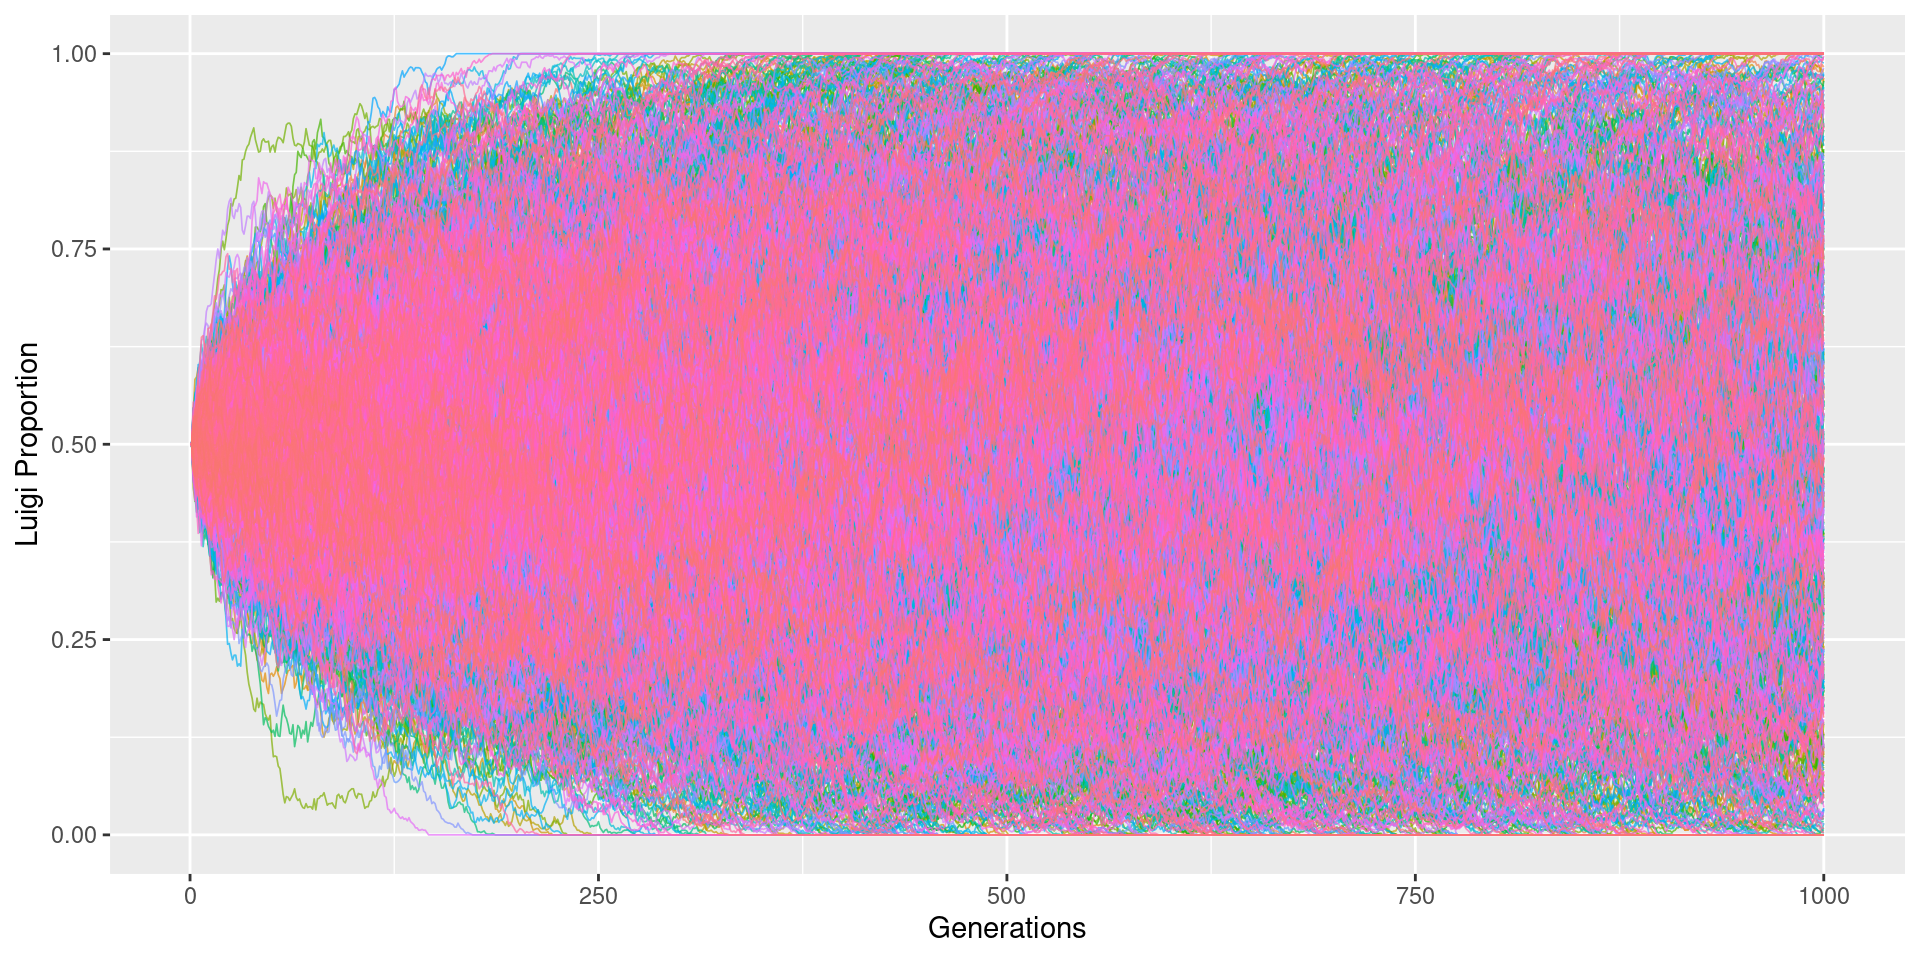
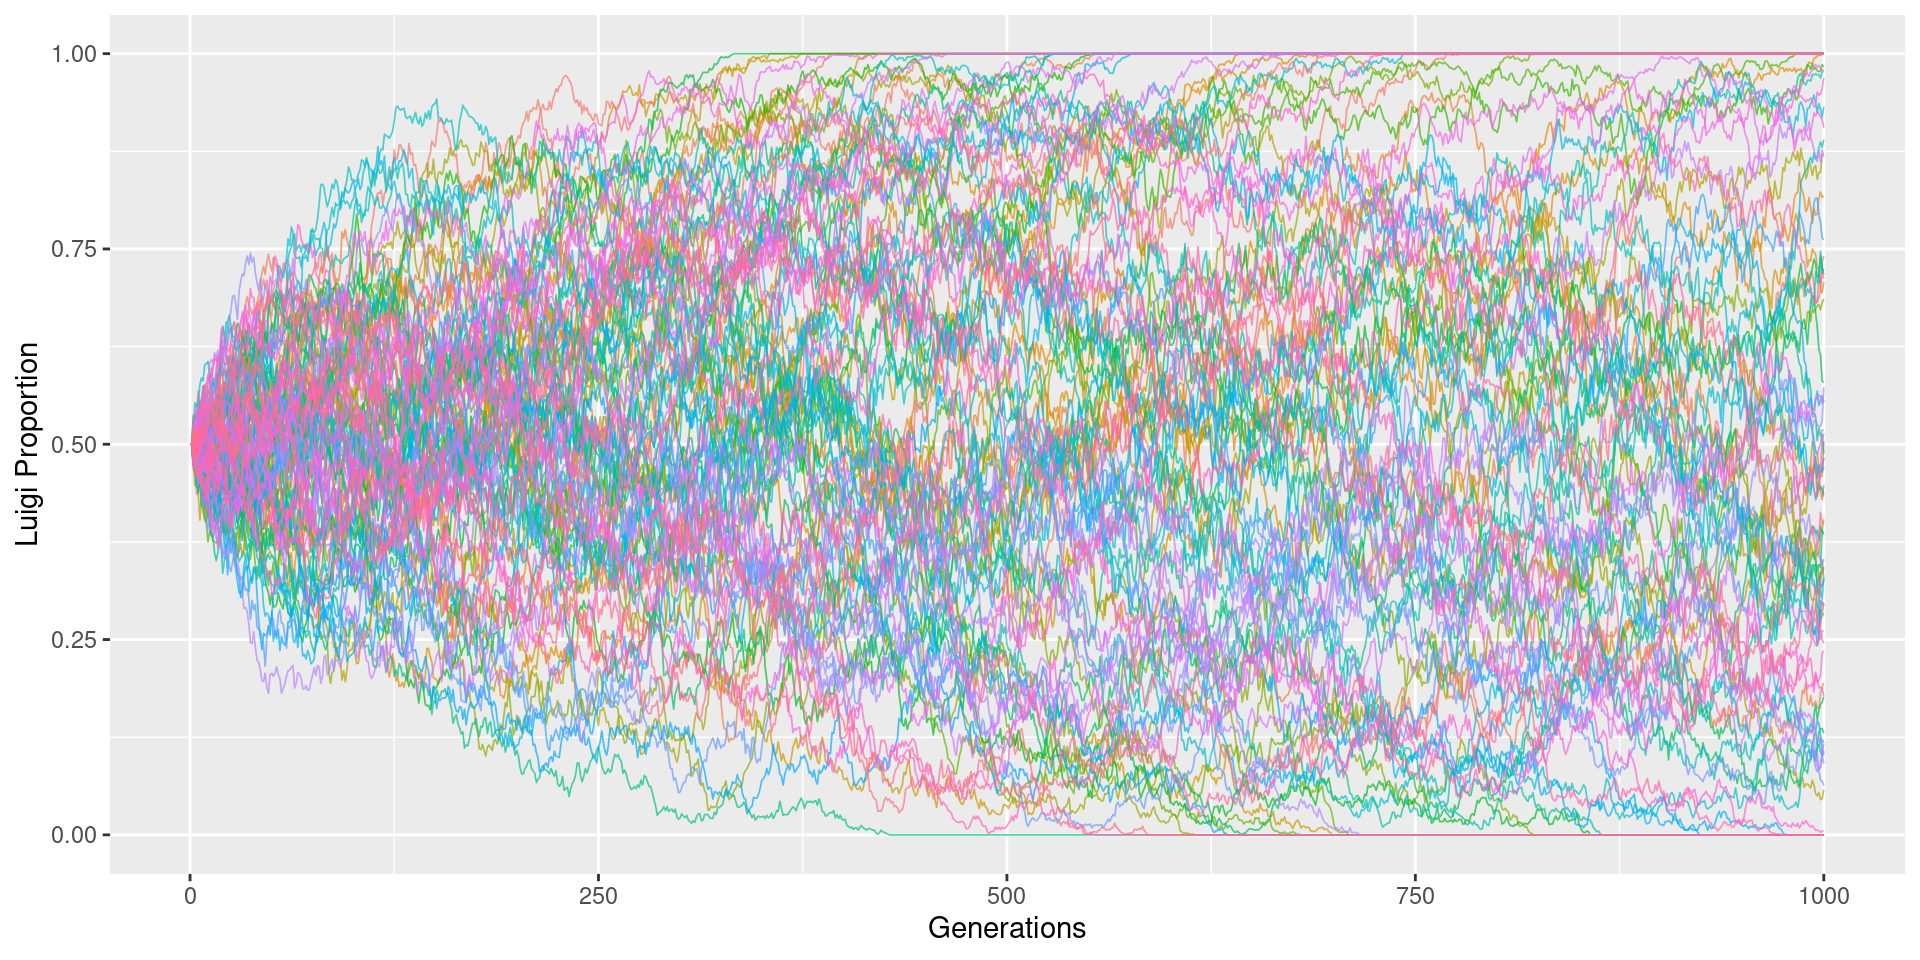
Built site for gh-pages

diff --git a/junior-day-2026.html b/junior-day-2026.html
@@ -204,28 +204,31 @@ Eric Friedlander
 
 </section>
 <section class="slide level2">
-<h2>A Little Bit About Met</h2>
+<h2>A Little Bit About Me</h2>
 <ul>
 <li>I’m in the <strong>MAPS</strong> (Mathematics &amp; Physical Sciences) department</li>
 <li>I mostly teach Statistics, Computer Science, and Data Analytics Courses</li>
 <li>My undergraduate degree is in Mathematics &amp; Statistics</li>
+<li>After college, I was a Business Analyst at Capital One</li>
 <li>My graduate degree is in Statistics &amp; Operations Research</li>
+<li>Did a Post-Doc in Population Genetics</li>
 <li>I’m grew up just outside New York City</li>
 </ul>
 </section>
 <section class="slide level2">
 <h2>Why should you study Math and Statistics?</h2>
 <ul>
-<li>The demand for quantitative skills is outpacing nearly every other field.</li>
-<li>Extremely high earning potential</li>
+<li><span class="fragment strike">The demand for quantitative skills is outpacing nearly every other field</span></li>
+<li><span class="fragment strike">Extremely high earning potential</span></li>
 </ul>
 <div class="fragment">
 <div>
 <ul>
 <li class="fragment"><a href="https://www.youtube.com/watch?v=oYJRwgHEFS0">Because it’s hard</a></li>
 <li class="fragment">Doing hard stuff is rewarding and will prepare you for success</li>
-<li class="fragment">You will have more flexibility</li>
+<li class="fragment">Doing hard stuff will provide you with flexibility</li>
 <li class="fragment">Jobs requiring strong quantitative skills are consistently ranked as having the highest quality of life</li>
+<li class="fragment">Math at the top of “stable careers” according to BLS</li>
 </ul>
 </div>
 </div>
@@ -291,9 +294,22 @@ Eric Friedlander
 <ul>
 <li class="fragment">We build a model</li>
 <li class="fragment">What’s a model?</li>
-<li class="fragment">Model: a simplified but tractable representation of the real world</li>
 </ul>
 </div>
+</section>
+<section class="slide level2">
+<h2>Text “modelyote” followed by your answer to 22333.</h2>
+<div class="container">
+<iframe src="https://embed.polleverywhere.com/free_text_polls/m8v8aZDjNsGL0dtEE2CLZ?controls=none&amp;short_poll=true" width="800px" height="600px">
+</iframe>
+</div>
+</section>
+<section class="slide level2">
+<h2>What is a model?</h2>
+<ul>
+<li>A model is a simplified but tractable version of reality</li>
+<li>What does tractable mean?</li>
+</ul>
 </section>
 <section class="slide level2">
 <h2>Calculating the area of California</h2>
@@ -359,7 +375,7 @@ Eric Friedlander
 <div>
 <ul>
 <li class="fragment">If <span class="math inline">\(p_k\)</span> is the proportion of Luigi’s in the <span class="math inline">\(k\)</span>th generation and…</li>
-<li class="fragment"><span class="math inline">\(X_{k+1}\)</span> is the number of Luigi’s int he <span class="math inline">\(k+1\)</span>th generation then…</li>
+<li class="fragment"><span class="math inline">\(X_{k+1}\)</span> is the number of Luigi’s in the <span class="math inline">\(k+1\)</span>th generation then…</li>
 <li class="fragment"><span class="math inline">\(X_k\)</span> has a <em>Binomial distribution</em></li>
 </ul>
 </div>
@@ -374,7 +390,7 @@ Eric Friedlander
 <span id="cb1-4"><a></a>x2 <span class="ot">&lt;-</span> <span class="fu">rbinom</span>(<span class="dv">1</span>, N, p1)</span>
 <span id="cb1-5"><a></a>x2</span></code><button title="Copy to Clipboard" class="code-copy-button"><i class="bi"></i></button></pre></div>
 <div class="cell-output cell-output-stdout">
-<pre><code>[1] 6</code></pre>
+<pre><code>[1] 5</code></pre>
 </div>
 </div>
 </section>
@@ -386,7 +402,7 @@ Eric Friedlander
 <span id="cb3-2"><a></a>x3 <span class="ot">&lt;-</span> <span class="fu">rbinom</span>(<span class="dv">1</span>, N, p2)</span>
 <span id="cb3-3"><a></a>x3</span></code><button title="Copy to Clipboard" class="code-copy-button"><i class="bi"></i></button></pre></div>
 <div class="cell-output cell-output-stdout">
-<pre><code>[1] 6</code></pre>
+<pre><code>[1] 4</code></pre>
 </div>
 </div>
 </section>
@@ -402,7 +418,7 @@ Eric Friedlander
 <span id="cb5-6"><a></a>}</span>
 <span id="cb5-7"><a></a>x</span></code><button title="Copy to Clipboard" class="code-copy-button"><i class="bi"></i></button></pre></div>
 <div class="cell-output cell-output-stdout">
-<pre><code> [1] 5 6 3 3 3 1 2 1 0 0</code></pre>
+<pre><code> [1]  5  6  9  8  7  9  9 10 10 10</code></pre>
 </div>
 </div>
 </section>
@@ -425,62 +441,62 @@ Eric Friedlander
 <span id="cb7-7"><a></a>}</span>
 <span id="cb7-8"><a></a>x</span></code><button title="Copy to Clipboard" class="code-copy-button"><i class="bi"></i></button></pre></div>
 <div class="cell-output cell-output-stdout">
-<pre><code>   [1] 500 495 483 477 464 460 470 468 472 471 465 500 472 473 480 462 473 458
-  [19] 475 496 488 483 471 467 462 456 468 466 462 455 468 460 453 446 440 426
-  [37] 427 400 395 384 384 408 406 399 371 384 369 393 415 401 380 391 398 403
-  [55] 431 419 426 399 398 403 417 412 390 376 374 385 389 382 350 339 336 320
-  [73] 311 333 320 329 315 314 321 330 304 303 315 288 281 292 290 322 325 317
-  [91] 296 303 282 322 339 334 343 366 367 365 344 357 359 338 354 359 399 383
- [109] 377 371 359 340 337 361 325 344 318 307 313 315 313 307 306 303 300 300
- [127] 304 321 310 303 300 292 311 332 343 327 331 309 319 302 333 340 321 338
- [145] 329 333 342 329 350 361 362 359 359 379 373 356 363 343 353 355 353 361
- [163] 359 388 363 368 370 368 379 407 404 389 406 411 411 431 416 429 462 444
- [181] 444 423 419 448 436 433 407 404 385 393 396 402 392 404 410 397 376 360
- [199] 366 377 374 361 349 312 320 315 299 282 271 282 287 292 308 321 329 328
- [217] 317 270 284 285 287 273 272 286 264 264 246 250 262 260 272 264 257 234
- [235] 230 242 229 241 236 211 190 200 197 205 198 189 207 195 173 175 186 160
- [253] 151 142 130 128 126 125 122 138 141 159 158 148 141 132 127 120 119 132
- [271] 135 129 133 132 126 130 115 126 127 123 117 114 113 107 100 103  92  83
- [289]  70  72  77  77  65  61  70  69  71  60  67  72  73  56  53  51  67  70
- [307]  75  87  82  66  60  51  67  63  62  66  65  74  89  92 100 104 103 109
- [325] 112 106 100 110 110 116 121 108  80  73  73  61  64  67  59  52  41  62
- [343]  56  53  55  60  62  63  60  79  81  82  72  71  76  64  61  58  59  68
- [361]  64  52  60  71  72  79  86  87  82  76  75  92 111 113 113 109 107 119
- [379] 130 141 142 153 139 123 124 124 128 136 150 151 136 134 127 124 107 120
- [397] 136 152 163 157 174 179 184 188 190 180 161 176 183 184 188 167 175 155
- [415] 177 170 175 196 179 200 220 210 209 194 191 205 218 216 213 225 212 225
- [433] 209 184 205 206 214 196 179 167 178 172 167 157 147 144 134 133 145 158
- [451] 159 164 152 151 145 120 109 100 103  99  98  90  83  99 106 110 115 108
- [469]  98  93  82 101  93  98 101  90  88  79  78  71  69  78  82  85  72  73
- [487]  56  72  71  72  69  76  81  70  71  74  96  93 109  98 113 106  96  95
- [505]  80  76  81  66  78  59  55  47  41  47  57  52  47  54  43  42  40  30
- [523]  31  32  36  28  31  32  32  28  29  30  29  41  35  28  34  39  33  40
- [541]  55  46  57  46  53  51  48  39  44  42  36  37  31  27  38  38  47  55
- [559]  44  49  42  41  40  42  46  47  60  58  75  74  80  88  93 109 113 118
- [577] 107  97 106 102 107 108 105 124 109 100  96 109  99  84  99  93  99  85
- [595]  70  68  81  74  65  61  62  63  57  49  42  46  60  75  97 106 100  90
- [613] 107  99  99 108 103  96  95  97 104  98  86  80  79  86  87  84  91  84
- [631]  81  88  79  72  60  60  70  77  70  76  79  82  87 100 117 107 107 100
- [649] 116 118 135 136 147 132 136 125 130 113 127 121 105 100 106 107 105 106
- [667]  96  96 104  99  82  78  85  91  94  94 102 114 120 118 120 128 124 126
- [685] 133 123 114 128 119 122 131 124 121 123 109 104 109 123 112 122 141 145
- [703] 136 139 130 101  92  93 103 105  90  96  87  83  83  74  86  93  99 104
- [721] 107  97 105 109 103 102  89  78  68  66  61  72  76  66  69  74  72  71
- [739]  64  61  53  52  47  50  49  51  58  55  52  53  57  52  45  53  54  55
- [757]  64  60  56  42  40  41  40  30  20  19  20  21  18  22  30  27  30  34
- [775]  24  24  23  28  23  16  18  16  14  18  17  16  13  12  13  15  16  18
- [793]  19  16  19  15  17  10   9   6   8   6   3   6   7   5   6   7   8   9
- [811]  11  13  17  11   9   4   2   2   1   0   0   0   0   0   0   0   0   0
- [829]   0   0   0   0   0   0   0   0   0   0   0   0   0   0   0   0   0   0
- [847]   0   0   0   0   0   0   0   0   0   0   0   0   0   0   0   0   0   0
- [865]   0   0   0   0   0   0   0   0   0   0   0   0   0   0   0   0   0   0
- [883]   0   0   0   0   0   0   0   0   0   0   0   0   0   0   0   0   0   0
- [901]   0   0   0   0   0   0   0   0   0   0   0   0   0   0   0   0   0   0
- [919]   0   0   0   0   0   0   0   0   0   0   0   0   0   0   0   0   0   0
- [937]   0   0   0   0   0   0   0   0   0   0   0   0   0   0   0   0   0   0
- [955]   0   0   0   0   0   0   0   0   0   0   0   0   0   0   0   0   0   0
- [973]   0   0   0   0   0   0   0   0   0   0   0   0   0   0   0   0   0   0
- [991]   0   0   0   0   0   0   0   0   0   0</code></pre>
+<pre><code>   [1] 500 494 507 531 531 544 525 527 515 492 514 510 520 486 489 459 450 431
+  [19] 432 431 399 396 392 397 400 416 425 416 412 439 441 438 435 421 404 413
+  [37] 407 413 398 401 410 411 403 412 415 457 451 431 433 455 461 454 444 445
+  [55] 455 448 451 455 453 464 465 474 487 455 446 456 447 423 445 418 436 447
+  [73] 452 444 469 467 468 457 455 452 458 467 482 464 464 458 458 465 485 510
+  [91] 502 493 495 487 511 522 506 494 505 489 495 494 473 465 460 474 474 448
+ [109] 450 473 475 490 498 478 484 501 500 530 553 518 525 531 534 535 517 507
+ [127] 513 501 492 508 503 501 505 521 518 530 537 527 542 561 551 531 526 540
+ [145] 534 532 555 574 564 566 550 575 567 579 561 547 536 561 545 533 545 543
+ [163] 554 557 545 556 560 593 596 602 628 611 604 617 621 614 616 638 648 669
+ [181] 683 666 665 664 658 637 629 618 616 585 572 583 598 579 586 597 570 561
+ [199] 563 559 589 575 563 544 494 500 507 513 493 518 492 504 514 511 512 505
+ [217] 513 514 514 494 492 509 529 553 535 513 520 532 548 542 527 531 526 555
+ [235] 580 561 579 589 599 602 616 619 628 643 670 692 674 707 692 686 701 673
+ [253] 641 602 622 646 672 667 657 644 632 643 649 661 695 683 668 653 634 630
+ [271] 643 641 639 632 628 645 627 626 616 632 650 655 652 663 657 636 628 661
+ [289] 660 645 652 662 656 673 660 650 631 632 647 648 653 650 667 669 641 635
+ [307] 667 700 683 677 673 674 682 662 654 645 639 645 649 655 667 665 685 679
+ [325] 683 717 718 685 663 676 681 692 699 703 704 727 755 763 764 790 806 817
+ [343] 832 841 871 861 863 860 841 843 861 863 877 878 874 838 837 858 847 848
+ [361] 853 860 858 836 822 814 817 813 810 800 829 824 826 809 812 813 821 835
+ [379] 822 835 835 854 837 843 873 875 872 866 863 875 878 861 859 858 865 856
+ [397] 858 858 838 842 834 823 809 811 819 817 786 763 768 772 769 760 736 712
+ [415] 711 712 720 718 729 705 719 743 735 736 738 730 754 759 743 739 740 748
+ [433] 745 744 727 735 726 700 695 692 684 670 661 630 617 614 610 606 593 596
+ [451] 615 609 577 578 540 545 554 549 531 534 531 539 521 499 471 453 447 448
+ [469] 461 454 453 464 467 477 466 466 478 497 512 508 488 465 456 470 441 425
+ [487] 430 420 416 429 431 430 421 414 406 413 394 380 395 390 367 357 362 353
+ [505] 365 396 404 390 391 399 398 392 363 376 383 408 419 419 415 401 417 407
+ [523] 414 395 413 397 439 473 469 490 467 446 434 453 413 412 430 445 444 457
+ [541] 441 457 480 471 468 495 507 497 498 497 503 505 501 522 522 496 506 481
+ [559] 476 481 524 498 519 480 471 456 443 447 440 428 437 420 437 471 478 472
+ [577] 492 483 462 457 422 451 452 473 462 466 480 477 477 497 491 512 496 490
+ [595] 481 476 453 433 458 478 477 508 510 501 488 470 464 470 473 465 476 485
+ [613] 481 495 509 487 483 486 494 521 528 558 550 549 541 537 526 520 522 509
+ [631] 523 506 500 506 523 518 494 491 469 490 499 509 517 520 522 531 523 550
+ [649] 565 568 574 587 583 588 569 557 573 583 578 575 561 551 555 549 548 560
+ [667] 541 536 518 510 522 552 541 556 552 558 585 601 595 596 589 587 559 594
+ [685] 571 577 569 564 556 548 558 550 545 541 548 566 568 604 627 635 661 658
+ [703] 668 677 696 709 718 742 735 734 731 762 748 758 762 780 759 752 769 754
+ [721] 757 746 757 770 754 751 767 762 769 785 787 755 767 773 769 756 755 765
+ [739] 774 777 765 764 777 780 787 793 803 791 787 768 763 749 779 799 783 776
+ [757] 782 762 767 787 773 778 781 769 763 747 757 768 761 766 768 783 778 795
+ [775] 786 795 792 782 776 808 818 825 852 844 834 832 825 810 819 834 855 847
+ [793] 859 860 869 871 876 889 861 845 835 845 843 842 828 834 824 813 791 798
+ [811] 804 817 804 817 823 825 809 813 815 815 822 828 815 804 782 778 766 775
+ [829] 778 769 782 761 768 774 770 783 804 802 802 807 785 800 775 798 806 816
+ [847] 811 807 800 794 782 777 772 769 779 766 758 761 776 762 760 767 766 769
+ [865] 785 791 786 798 794 806 816 806 797 787 787 789 793 792 803 812 821 824
+ [883] 833 837 826 818 801 779 795 789 783 778 790 754 760 769 766 764 751 772
+ [901] 762 751 766 770 772 759 771 760 782 787 789 796 800 785 780 762 739 746
+ [919] 738 752 741 734 758 731 741 735 710 727 739 744 733 725 732 742 779 767
+ [937] 765 754 760 762 775 774 788 775 759 749 753 759 717 722 725 712 724 719
+ [955] 737 734 729 726 715 728 751 743 756 761 741 739 742 756 753 749 745 762
+ [973] 756 774 767 771 778 777 783 784 779 802 796 817 807 799 802 808 817 807
+ [991] 819 828 838 841 835 822 830 843 852 837</code></pre>
 </div>
 </div>
 </div>
@@ -1039,7 +1055,7 @@ Eric Friedlander
       }
         var localhostRegex = new RegExp(/^(?:http|https):\/\/localhost\:?[0-9]*\//);
         var mailtoRegex = new RegExp(/^mailto:/);
-          var filterRegex = new RegExp('/' + window.location.host + '/');
+          var filterRegex = new RegExp("https:\/\/EricFriedlander\.github\.io\/junior-preview-day-2026\/");
         var isInternal = (href) => {
             return filterRegex.test(href) || localhostRegex.test(href) || mailtoRegex.test(href);
         }